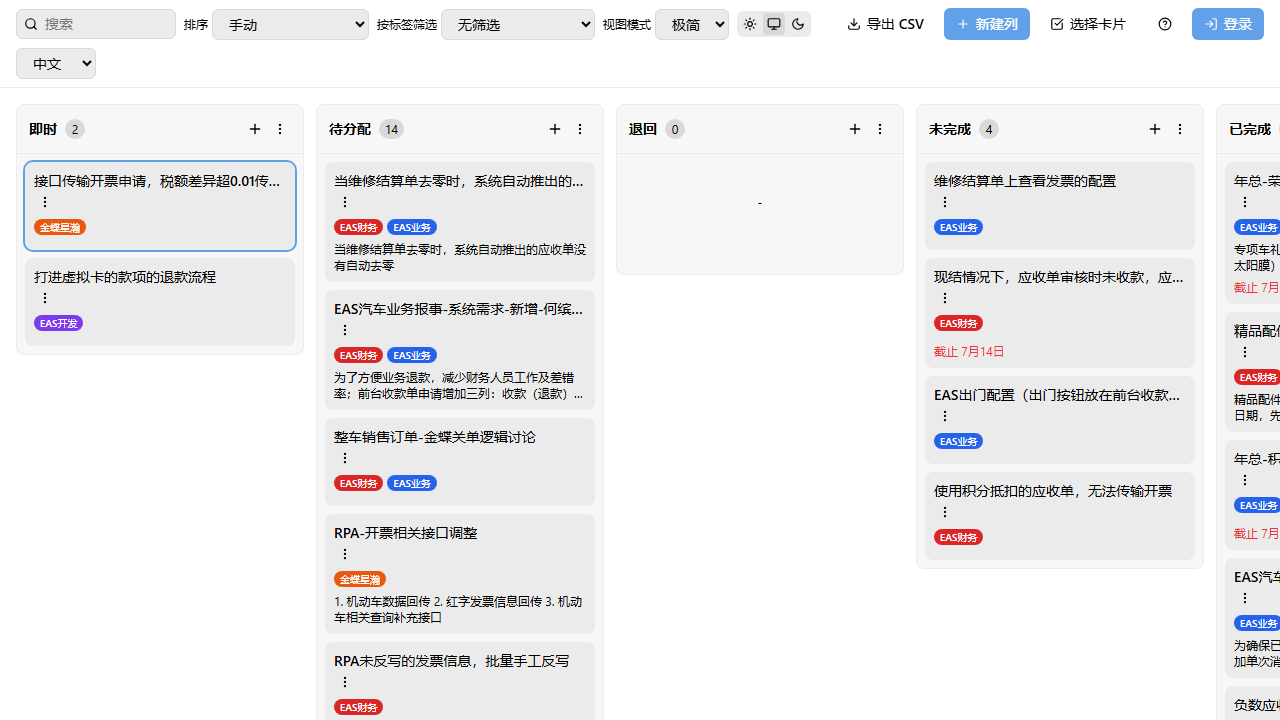
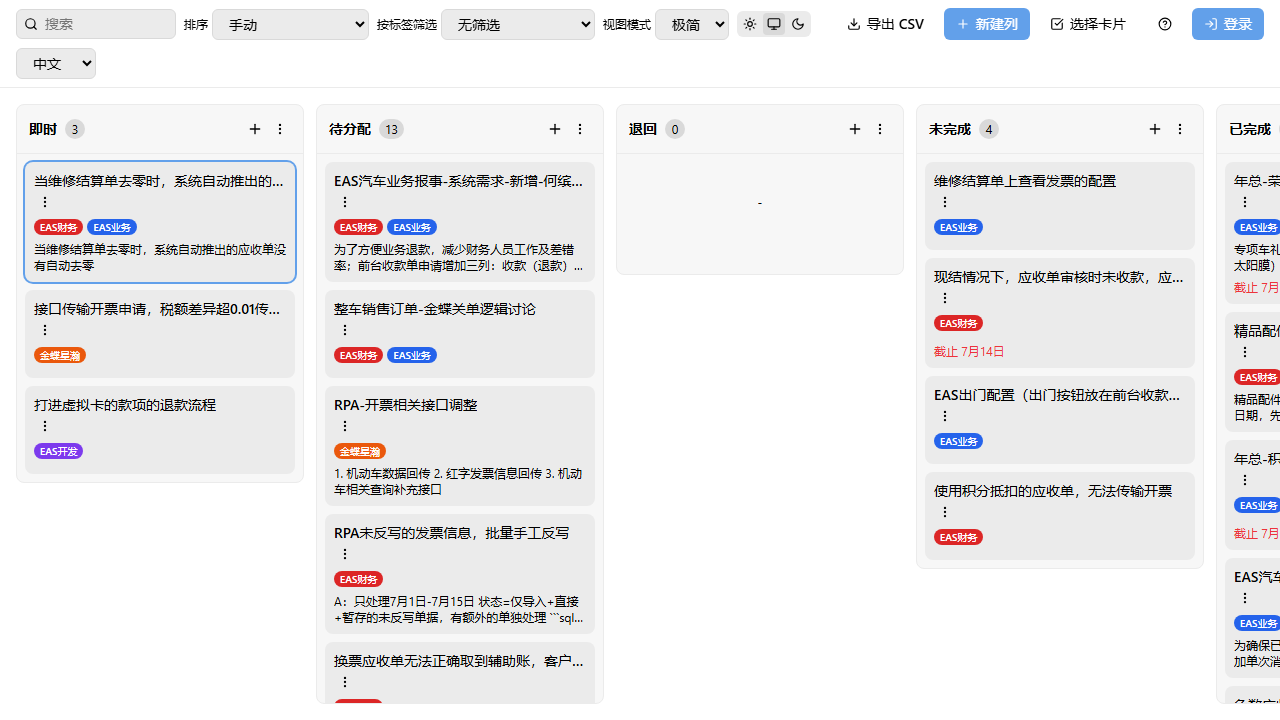
修复 3 个 UI bug：按钮样式统一 + 滚动条 + 视图模式
Bug 1：完成/退回按钮样式统一
- 原问题：完成用 ShimmerButton（双行 padding）、退回用 btn--ghost（单行），视觉不一致
- 修复：两个按钮统一用 inline-flex + 相同 padding，仅背景色区分（完成=绿 alt-5，退回=橙 alt-3）
- 移除 ExpandedCard 中未使用的 ShimmerButton import

Bug 2：页面滚动条丢失
- 原问题：.lanes 用 overflow-y-hidden 锁死纵向滚动；.lane 无高度约束导致 .lane__content 的 overflow-y-auto 失效
- 修复：.lanes 改 overflow-auto（双向可滚），内层 flex 加 items-stretch 让 lane 等高，.lane 加 max-h-full

Bug 3：视图模式 select 失效 + 改为 3 种层级展示
- 根因：Header 把 e.target.value（字符串）传给 onViewModeChange，App 把它当 event 用访问 .value 报错 'Cannot read properties of undefined'
- 修复：Header 改成 onChange={onViewModeChange} 直接传 event，与 App 的 (e) => setViewMode(e.target.value) 一致
- 增强：移除 regular 选项，只保留 展开/紧凑/极简 3 种，分别展示不同信息层级：
  - 展开：标题 + 标签 + 内容预览（3 行）+ 截止日期
  - 紧凑：标题 + 标签 + 截止日期（无内容）
  - 极简：仅标题
- store 加 normalizeViewMode + onRehydrateStorage，已存的 regular 自动降级到 compact

Bug 3.1：卡片右上角 ⋮ 按钮位置错误
- 原问题：CardName 用 <> 包裹两个并列 div（标题 + 按钮），无 flex 容器导致按钮堆在标题下方
- 修复：CardName 外层改为 div.flex.items-center.w-full，标题 flex-1 占左、按钮 shrink-0 靠右
- 按钮 hover 才显示（opacity-0 group-hover:opacity-100），平时不挤压标题

diff --git a/frontend/src/styles/index.css b/frontend/src/styles/index.css
@@ -204,30 +204,63 @@
   color: var(--color-foreground);
 }
 
-/* ==================== 视图密度变体 ==================== */
+/* ==================== 视图密度变体 ====================
+   3 种视图模式展示不同信息层级：
+   - extended（展开）：标题 + 标签 + 内容预览（3 行）+ 截止日期，padding 最大
+   - compact（紧凑）：标题 + 标签 + 截止日期，不显示内容预览，padding 中等
+   - tight（极简）：仅标题，标签和截止日期都隐藏，padding 最小
+   regular 已废弃（自动降级到 compact）
+*/
+.view-mode-extended .card {
+  @apply p-4 text-base;
+}
+.view-mode-extended .card__name {
+  @apply text-base font-semibold;
+}
+.view-mode-extended .card__content {
+  @apply line-clamp-3;
+}
+.view-mode-extended .card__tags,
+.view-mode-extended .card__due-date,
+.view-mode-extended .card__content {
+  display: flex;
+}
+
+.view-mode-compact .card {
+  @apply p-2.5 text-sm;
+}
+.view-mode-compact .card__name {
+  @apply text-sm font-medium;
+}
+.view-mode-compact .card__tags,
+.view-mode-compact .card__due-date {
+  display: flex;
+}
+.view-mode-compact .card__content {
+  display: none;
+}
+
 .view-mode-tight .card {
   @apply p-2 text-xs;
 }
 .view-mode-tight .card__name {
   @apply text-xs font-medium;
 }
+.view-mode-tight .card__tags,
+.view-mode-tight .card__due-date,
+.view-mode-tight .card__content {
+  display: none;
+}
 .view-mode-tight .tag {
   @apply px-1.5 py-0 text-[10px];
 }
 
-.view-mode-compact .card {
+/* 兼容：regular 已废弃，行为同 compact */
+.view-mode-regular .card {
   @apply p-2.5 text-sm;
 }
-
-.view-mode-regular .card {
-  @apply p-3 text-sm;
-}
-
-.view-mode-extended .card {
-  @apply p-4 text-base;
-}
-.view-mode-extended .card__content {
-  @apply line-clamp-3;
+.view-mode-regular .card__content {
+  display: none;
 }
 
 /* ==================== 拖拽视觉反馈 ==================== */

diff --git a/frontend/src/components/CardName.jsx b/frontend/src/components/CardName.jsx
@@ -32,18 +32,16 @@ export function CardName({ name, hasContent, onRenameBtnClick, onDelete, onClick
   ];
 
   return (
-    <>
-      <div className="flex items-center gap-1 min-w-0 flex-1">
-        <button
-          type="button"
-          onClick={onClick}
-          className="text-left text-sm font-medium truncate hover:text-accent transition-colors min-w-0"
-          title={name}
-        >
-          {name}
-        </button>
-      </div>
-      <div className="header-buttons flex items-center gap-0.5 shrink-0">
+    <div className="flex items-center gap-1 min-w-0 w-full">
+      <button
+        type="button"
+        onClick={onClick}
+        className="text-left text-sm font-medium truncate flex-1 min-w-0 hover:text-accent transition-colors"
+        title={name}
+      >
+        {name}
+      </button>
+      <div className="header-buttons flex items-center gap-0.5 shrink-0 opacity-0 group-hover:opacity-100 focus-within:opacity-100 transition-opacity">
         <button
           type="button"
           onClick={openMenu}
@@ -61,6 +59,6 @@ export function CardName({ name, hasContent, onRenameBtnClick, onDelete, onClick
         onClose={() => setMenuOpen(false)}
         id={`card-name-menu-${name}`}
       />
-    </>
+    </div>
   );
 }

diff --git a/frontend/src/store/ui-store.js b/frontend/src/store/ui-store.js
@@ -8,6 +8,13 @@ import { persist } from "zustand/middleware";
 // 仅持久化以下字段到 localStorage
 const PERSIST_KEYS = ["sort", "sortDirection", "filteredTag", "viewMode", "theme"];
 
+// 视图模式兼容映射（v2 已移除 regular，降级到 compact）
+function normalizeViewMode(mode) {
+  if (mode === "regular") return "compact";
+  if (["extended", "compact", "tight"].includes(mode)) return mode;
+  return "tight";
+}
+
 export const useUiStore = create(
   persist(
     (set, get) => ({
@@ -15,7 +22,7 @@ export const useUiStore = create(
       sort: "none", // none | name | tags | due | lastUpdated | createdFirst
       sortDirection: "asc",
       filteredTag: null,
-      viewMode: "tight", // extended | regular | compact | tight
+      viewMode: "tight", // extended | compact | tight（regular 已移除，降级到 compact）
       theme: "auto", // auto | light | dark
 
       // ===== 临时 UI 字段（不持久化） =====
@@ -41,7 +48,7 @@ export const useUiStore = create(
         }
       },
       setFilteredTag: (tag) => set({ filteredTag: tag }),
-      setViewMode: (mode) => set({ viewMode: mode }),
+      setViewMode: (mode) => set({ viewMode: normalizeViewMode(mode) }),
       setTheme: (theme) => set({ theme }),
 
       setSelectionMode: (mode) =>
@@ -90,6 +97,12 @@ export const useUiStore = create(
           return acc;
         }, {}),
       // Set 不能直接 JSON 序列化，但 PERSIST_KEYS 不含 selectedCards，所以无需自定义 storage
+      // 加载持久化数据后做兼容映射（如已存的 regular -> compact）
+      onRehydrateStorage: () => (state) => {
+        if (state && state.viewMode) {
+          state.viewMode = normalizeViewMode(state.viewMode);
+        }
+      },
     }
   )
 );

diff --git a/frontend/src/components/ExpandedCard.jsx b/frontend/src/components/ExpandedCard.jsx
@@ -36,7 +36,6 @@ import {
 } from "../lib/card-content-utils.js";
 import { markdownToHtml, htmlToMarkdown } from "../lib/markdown.js";
 import { uploadImage } from "../lib/upload-image.js";
-import { ShimmerButton } from "./react-bits/ShimmerButton.jsx";
 import { TiltedCard } from "./react-bits/TiltedCard.jsx";
 import { StatusActionDialog } from "./StatusActionDialog.jsx";
 import { StatusLogTimeline } from "./StatusLogTimeline.jsx";
@@ -287,23 +286,26 @@ export function ExpandedCard({
             </TiltedCard>
 
             <div className="flex items-center gap-1 shrink-0">
-              {/* 完成/退回按钮（仅登录可见） */}
+              {/* 完成/退回按钮（仅登录可见，样式统一） */}
               {isAdmin && (
                 <>
-                  <ShimmerButton
+                  <button
+                    type="button"
                     onClick={handleCompleteClick}
-                    className="px-3 py-1.5 text-sm"
+                    className="inline-flex items-center gap-1.5 rounded-md px-3 py-1.5 text-sm font-medium text-white transition-all hover:brightness-110 active:scale-95"
+                    style={{ backgroundColor: "var(--color-alt-5)" }}
                     title={t("expandedCard.complete")}
                   >
                     <Check size={14} />
                     <span className="hidden md:inline">
                       {t("expandedCard.complete")}
                     </span>
-                  </ShimmerButton>
+                  </button>
                   <button
                     type="button"
                     onClick={handleReturnClick}
-                    className="btn btn--ghost text-sm"
+                    className="inline-flex items-center gap-1.5 rounded-md px-3 py-1.5 text-sm font-medium text-white transition-all hover:brightness-110 active:scale-95"
+                    style={{ backgroundColor: "var(--color-alt-3)" }}
                     title={t("expandedCard.return")}
                   >
                     <Undo2 size={14} />

diff --git a/frontend/src/App.jsx b/frontend/src/App.jsx
@@ -65,7 +65,7 @@ function Lane({ lane, index, cardsInLane, disableCardsDrag, ...handlers }) {
   return (
     <SortableLane lane={lane} index={index} disableDrag={disableCardsDrag}>
       <div
-        className="lane flex flex-col w-72 min-w-[18rem] bg-bg-2 rounded-lg border border-bg-3"
+        className="lane flex flex-col w-72 min-w-[18rem] max-h-full bg-bg-2 rounded-lg border border-bg-3"
         id={`lane-${lane}`}
         tabIndex={0}
         onFocus={() => handlers.onLaneFocus(index)}
@@ -839,12 +839,12 @@ function App() {
         onDragEnd={handleDragEnd}
         onDragCancel={handleDragCancel}
       >
-        <div className="lanes flex-1 overflow-x-auto overflow-y-hidden p-4">
+        <div className="lanes flex-1 overflow-auto p-4">
           <SortableContext
             items={lanes.map((l) => `lane-${l}`)}
             strategy={horizontalListSortingStrategy}
           >
-            <div className="flex gap-3 h-full">
+            <div className="flex gap-3 h-full items-stretch">
               {lanes.map((lane, index) => (
                 <Lane
                   key={lane}

diff --git a/frontend/src/components/header.jsx b/frontend/src/components/header.jsx
@@ -31,7 +31,7 @@ const SORT_OPTIONS = [
   { value: "createdFirst:asc", key: "header.sort.createdFirst" },
 ];
 
-const VIEW_MODES = ["extended", "regular", "compact", "tight"];
+const VIEW_MODES = ["extended", "compact", "tight"];
 
 const LOCALES = [
   { value: "zh", label: "中文" },
@@ -129,7 +129,7 @@ export function Header({
           </span>
           <select
             value={viewMode}
-            onChange={(e) => onViewModeChange(e.target.value)}
+            onChange={onViewModeChange}
             className="input py-1 text-sm"
           >
             {VIEW_MODES.map((mode) => (